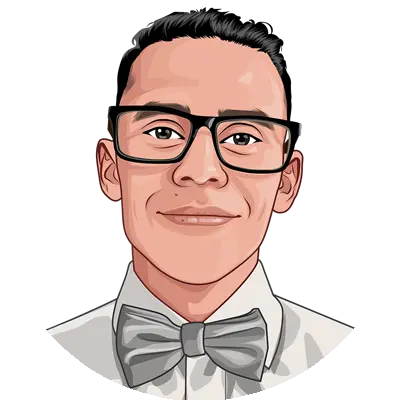
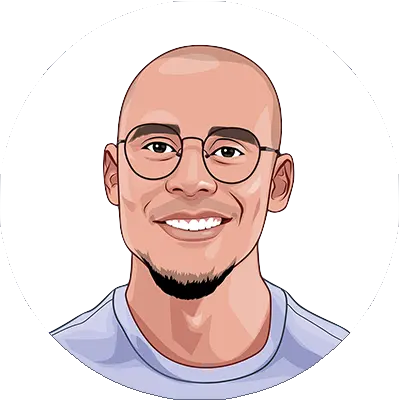
Change pics

diff --git a/resources/views/components/consulting/kirschbaum.blade.php b/resources/views/components/consulting/kirschbaum.blade.php
@@ -89,14 +89,14 @@
                 class="flex rounded-full bg-[#58597E] p-1.5 text-white shadow shadow-black/5 transition duration-300 hover:bg-[#6D72DD]"
             >
                 <img
-                    src="https://avatars.githubusercontent.com/u/41773797?v=4"
-                    alt="Dan Harrin"
+                    src="{{ Vite::asset('resources/images/consulting/kirschbaum/kirschbaum.webp') }}"
+                    alt="Kirschbaum logo"
                     class="h-10 w-10 rounded-full ring-1 ring-white"
                     loading="lazy"
                 />
                 <div class="px-5 py-2">
                     <span class="inline-block">Contact</span>
-                    <strong>Dan</strong>
+                    <strong>Kirschbaum</strong>
                     <span class="hidden min-[530px]:inline-block">
                         About Your Project
                     </span>
@@ -107,32 +107,32 @@
                 <div class="flex items-center gap-3">
                     <div class="group/overlapping-experts flex">
                         <img
-                            src="{{ Vite::asset('resources/images/consulting/kirschbaum/alex.webp') }}"
-                            alt="Alex Six"
+                            src="{{ Vite::asset('resources/images/consulting/kirschbaum/grant.webp') }}"
+                            alt="Grant"
                             class="h-10 w-10 rounded-full bg-[#58597E] ring-1 ring-white"
                             loading="lazy"
                         />
                         <img
                             src="{{ Vite::asset('resources/images/consulting/kirschbaum/wilker.webp') }}"
-                            alt="Wilker Mesquita"
+                            alt="Wilker"
                             class="-ml-4 h-10 w-10 rounded-full bg-[#58597E] ring-1 ring-white transition-all duration-300 group-hover/overlapping-experts:-ml-2"
                             loading="lazy"
                         />
                         <img
                             src="{{ Vite::asset('resources/images/consulting/kirschbaum/derek.webp') }}"
-                            alt="Derek Goetz"
+                            alt="Derek"
                             class="-ml-4 h-10 w-10 rounded-full bg-[#58597E] ring-1 ring-white transition-all duration-300 group-hover/overlapping-experts:-ml-2"
                             loading="lazy"
                         />
                         <img
-                            src="{{ Vite::asset('resources/images/consulting/kirschbaum/kevin.webp') }}"
-                            alt="Kevin Ullyott"
+                            src="{{ Vite::asset('resources/images/consulting/kirschbaum/erin.webp') }}"
+                            alt="Erin"
                             class="-ml-4 h-10 w-10 rounded-full bg-[#58597E] ring-1 ring-white transition-all duration-300 group-hover/overlapping-experts:-ml-2"
                             loading="lazy"
                         />
                         <img
                             src="{{ Vite::asset('resources/images/consulting/kirschbaum/babacar.webp') }}"
-                            alt="Babacar Cisse DIA"
+                            alt="Babacar"
                             class="-ml-4 h-10 w-10 rounded-full bg-[#58597E] ring-1 ring-white transition-all duration-300 group-hover/overlapping-experts:-ml-2"
                             loading="lazy"
                         />

diff --git a/resources/views/components/consulting/experts.blade.php b/resources/views/components/consulting/experts.blade.php
@@ -42,20 +42,17 @@
         class="grid grid-cols-1 gap-14 md:grid-cols-2"
     >
         <x-consulting.consultant
-            avatar="https://avatars.githubusercontent.com/u/41773797?v=4"
-            name="Dan Harrin"
-            title="Creator of Filament"
+            avatar="{{ Vite::asset('resources/images/consulting/kirschbaum/kirschbaum.webp') }}"
+            name="Kirschbaum"
+            title="Official development agency"
         >
-            <strong>Dan</strong>
-            leads the Filament project from
+            <strong>Kirschbaum</strong>
+            is the
             {{-- format-ignore-start --}}
-            <strong>Cardiff, United Kingdom</strong>.
+            <strong>official development agency</strong>
             {{-- format-ignore-end --}}
-            He works for
-            <a href="#kirschbaum">Kirschbaum</a>
-            as a Lead Developer, which is a Laravel-partnered agency full of
-            Filament and Laravel experts. Dan and the rest of the Kirschbaum
-            team are
+            trusted by Filament. They are a team full of
+            Filament and Laravel experts,
             {{-- format-ignore-start --}}
             <a href="#kirschbaum">ready to take on your projects</a>,
             {{-- format-ignore-end --}}
